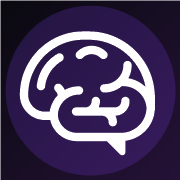
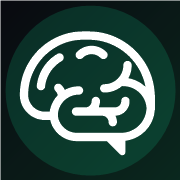
Rebrand from Training Brain to FitBrain
- All text references updated throughout the app
- New apple-touch-icon: dark bg with green glow accent
- New og-image: two-tone title (Fit in green, Brain in white) with green theme

diff --git a/index.html b/index.html
@@ -5,25 +5,25 @@
   <meta name="viewport" content="width=device-width, initial-scale=1.0, viewport-fit=cover, user-scalable=no">
   <meta name="apple-mobile-web-app-capable" content="yes">
   <meta name="apple-mobile-web-app-status-bar-style" content="black-translucent">
-  <meta name="apple-mobile-web-app-title" content="Training Brain">
+  <meta name="apple-mobile-web-app-title" content="FitBrain">
   <meta name="theme-color" content="#09090f" media="(prefers-color-scheme: dark)">
   <meta name="theme-color" content="#f5f4ff" media="(prefers-color-scheme: light)">
   <!-- Open Graph / Social link previews -->
   <meta property="og:type" content="website">
   <meta property="og:url" content="https://nipshardaf.github.io/training-brain/">
-  <meta property="og:title" content="Training Brain">
+  <meta property="og:title" content="FitBrain">
   <meta property="og:description" content="AI-powered training companion. Plan your gym workouts, cycling rides, and track your progress — all in one place.">
   <meta property="og:image" content="https://nipshardaf.github.io/training-brain/og-image.png">
   <meta property="og:image:width" content="1200">
   <meta property="og:image:height" content="630">
   <meta name="twitter:card" content="summary_large_image">
-  <meta name="twitter:title" content="Training Brain">
+  <meta name="twitter:title" content="FitBrain">
   <meta name="twitter:description" content="AI-powered training companion. Plan your gym workouts, cycling rides, and track your progress — all in one place.">
   <meta name="twitter:image" content="https://nipshardaf.github.io/training-brain/og-image.png">
   <!-- PWA / Home screen icon -->
   <link rel="apple-touch-icon" sizes="180x180" href="apple-touch-icon.png">
   <link rel="manifest" href="data:application/manifest+json,%7B%22name%22%3A%22Training%20Brain%22%2C%22short_name%22%3A%22Training%20Brain%22%2C%22display%22%3A%22standalone%22%2C%22background_color%22%3A%22%2309090f%22%2C%22theme_color%22%3A%22%2309090f%22%2C%22icons%22%3A%5B%7B%22src%22%3A%22apple-touch-icon.png%22%2C%22sizes%22%3A%22180x180%22%2C%22type%22%3A%22image%2Fpng%22%7D%5D%7D">
-  <title>Training Brain</title>
+  <title>FitBrain</title>
   <script src="https://www.gstatic.com/firebasejs/9.6.10/firebase-app-compat.js"></script>
   <script src="https://www.gstatic.com/firebasejs/9.6.10/firebase-auth-compat.js"></script>
   <script src="https://www.gstatic.com/firebasejs/9.6.10/firebase-database-compat.js"></script>
@@ -1562,7 +1562,7 @@ function rLock(){
     const isNew=S._authNew||false;
     return`<div class="lock-wrap">
 <div class="lock-logo">🧠</div>
-<div class="lock-title">Training Brain</div>
+<div class="lock-title">FitBrain</div>
 <div class="lock-sub" style="margin-bottom:24px">Your personal gym &amp; cycling tracker</div>
 <div style="width:100%;max-width:300px;display:flex;flex-direction:column;gap:10px" autocomplete="off">
   <input id="auth-user" type="email" placeholder="Email" autocomplete="email" autocapitalize="none" spellcheck="false" inputmode="email"
@@ -1954,7 +1954,7 @@ function rWeek(){
   const syncAge=lastSync?Math.round((Date.now()-new Date(lastSync).getTime())/60000):null;
   return`<div class="screen">
 <div class="hdr" style="position:relative">
-  <h1>Training Brain</h1>
+  <h1>FitBrain</h1>
   <div class="hdr-sub">Weather-driven · Dynamic exercises · Tracks your PRs</div>
   <button onclick="lockApp()" style="position:absolute;top:0;right:0;background:none;border:none;font-size:18px;cursor:pointer;padding:4px" title="Lock">🔒</button>
 </div>
@@ -2474,7 +2474,7 @@ function rPRs(){
     if(log&&log.exercises&&log.exercises.some(e=>e.sets.some(s=>s.done)))history.push(log);
   }
   return`<div class="screen">
-<div class="hdr"><h1>Training Brain</h1><div class="hdr-sub">Progress · Records · History</div></div>
+<div class="hdr"><h1>FitBrain</h1><div class="hdr-sub">Progress · Records · History</div></div>
 
 <div class="sec-hdr">☁ Cloud sync</div>
 ${S.fbUser
@@ -2999,7 +2999,7 @@ function importData(){
         Object.entries(data).forEach(([k,v])=>{if(!k.startsWith('_')){DB.set(k,v);count++;}});
         alert(`✅ Restored ${count} records successfully!`);
         render();
-      }catch{alert('❌ Could not read file — make sure it\'s a Training Brain backup.');}
+      }catch{alert('❌ Could not read file — make sure it\'s a FitBrain backup.');}
     };
     reader.readAsText(file);
   };
